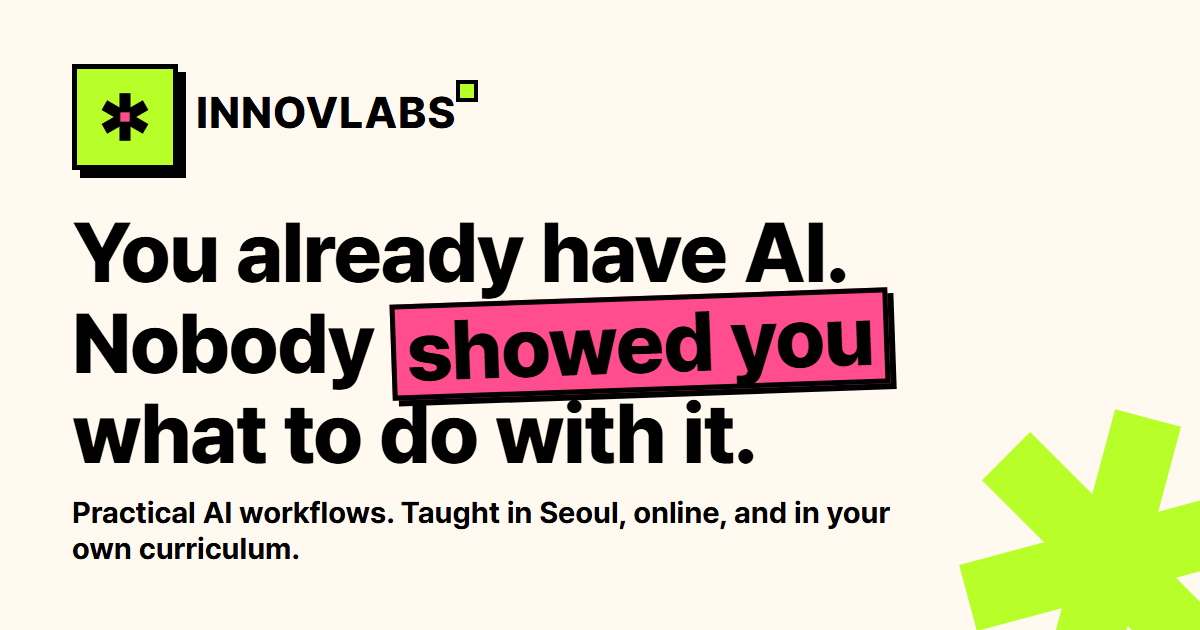
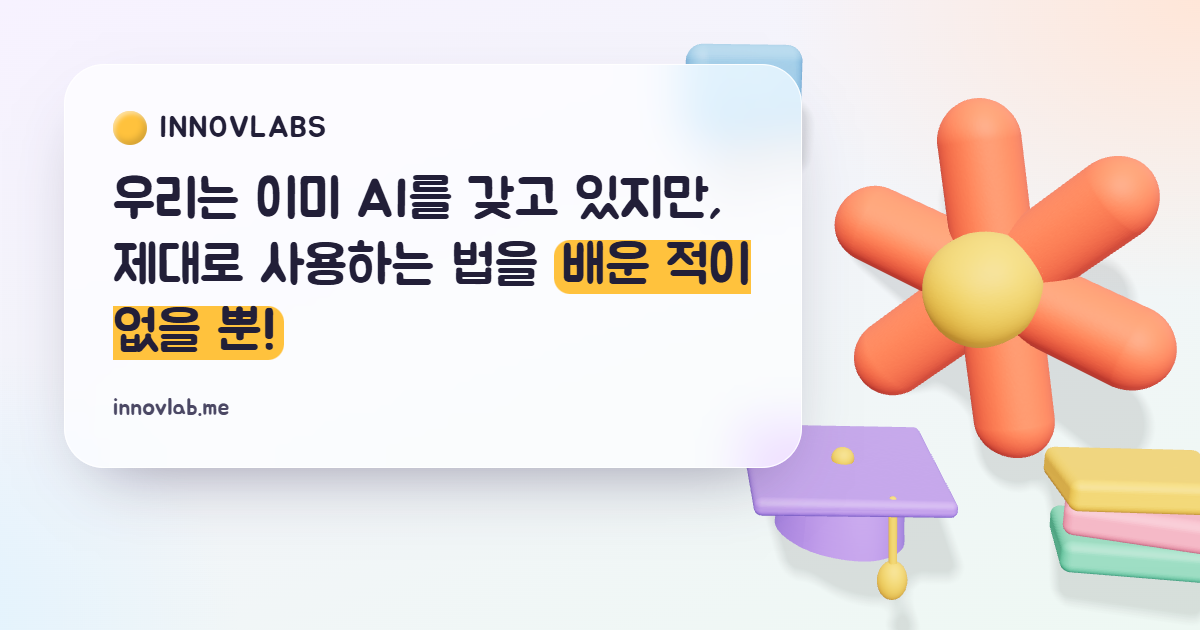
Rebrand R3: rest of the site in clay + glass; Jua subset; new share images
Translucent card surface site-wide; the router leads with the 학원 door
(reusing the approved hero 학원 copy) and every door card carries a clay
object; the closing banners use the clay asterisk; business, about and
contact headers get one floating clay object (hidden on small phones).
Jua's Korean file is subset to the 911 syllables the copy uses (368 ->
151 KB) by scripts/subset-jua.py, on site and app. New og-ko/og-en share
images rendered from the clay scene.

diff --git a/site/src/styles/global.css b/site/src/styles/global.css
@@ -14,6 +14,7 @@
   --cyan: #9FD3FF;
   --white: #FFFFFF;
   --glass: rgba(255, 255, 255, 0.62);
+  --surface: rgba(255, 255, 255, 0.7); /* cards: translucent white over the wash */
   --glass-edge: rgba(255, 255, 255, 0.9);
   --grey-fill: #ECE8F4;
   --grey-text: #4B4864;
@@ -66,6 +67,17 @@
   --stagger-strike: 100ms;
   --dur-draw: 200ms; /* motion spec 5.2.5 */
   --icon: 3rem; /* 48px grid, 40px on phones */
+}
+
+/* Jua, the display face: Korean subset to the syllables the copy uses
+   (scripts/subset-jua.py, 151 KB instead of 368 KB); Latin from @fontsource. */
+@font-face {
+  font-family: 'Jua';
+  src: url('/fonts/jua-ko.woff2') format('woff2');
+  font-weight: 400;
+  font-style: normal;
+  font-display: swap;
+  unicode-range: U+1100-11FF, U+3000-303F, U+3130-318F, U+AC00-D7A3, U+FF01-FF60;
 }
 
 /* Pretendard Variable, self-hosted, split by script so English pages never
@@ -181,6 +193,39 @@ h3 {
 ::selection {
   background: var(--lime);
   color: var(--ink);
+}
+
+/* Clay stills drift slowly; still under reduced motion (global rule below). */
+@keyframes clay-float {
+  from {
+    translate: 0 0;
+  }
+  to {
+    translate: 0 -10px;
+  }
+}
+
+/* One clay object floats at the right of a plain page header (business,
+   about, contact). Hidden on small phones so it never covers a headline. */
+.hero-clay {
+  position: absolute;
+  top: 50%;
+  right: max(var(--gutter), calc((100% - var(--max-width)) / 2 + var(--gutter)));
+  width: clamp(8rem, 17vw, 15rem);
+  height: auto;
+  margin-top: calc(clamp(8rem, 17vw, 15rem) / -2);
+  pointer-events: none;
+  animation: clay-float 7s ease-in-out infinite alternate;
+}
+@media (max-width: 699px) {
+  .hero-clay {
+    display: none;
+  }
+}
+@media (min-width: 700px) {
+  .hero-clay + h1 {
+    max-width: calc(100% - clamp(8rem, 17vw, 15rem) - 2rem);
+  }
 }
 
 /* Frosted glass panel: the surface every card and bar sits on. */

diff --git a/src/styles/fonts/jua.css b/src/styles/fonts/jua.css
@@ -1,5 +1,5 @@
-/* Jua (OFL-1.1, via @fontsource), the display face shared with the site. Korean and Latin
-   split by unicode-range; no preload and swap, so it never blocks text. */
+/* Jua (OFL-1.1, via @fontsource), the display face shared with the site. The Korean file is
+   subset to the syllables the copy uses (scripts/subset-jua.py). No preload; swap. */
 @font-face {
   font-family: "Jua";
   font-style: normal;
@@ -14,5 +14,5 @@
   font-display: swap;
   font-weight: 400;
   src: url(./jua-korean-400-normal.woff2) format("woff2");
-  unicode-range: U+1100-11FF, U+3130-318F, U+A960-A97F, U+AC00-D7A3, U+D7B0-D7FF;
+  unicode-range: U+1100-11FF, U+3000-303F, U+3130-318F, U+AC00-D7A3, U+FF01-FF60;
 }

diff --git a/scripts/subset-jua.py b/scripts/subset-jua.py
@@ -1,0 +1,37 @@
+"""Subset the Jua display face to the Hangul syllables used in site and app copy.
+
+Jua's full Korean file is 368 KB; headings only use a few hundred syllables, so
+the subset is a fraction of that. Re-run after copy changes (new syllables fall
+back to Pretendard until then):
+
+    pip install fonttools brotli
+    python scripts/subset-jua.py
+
+Writes site/public/fonts/jua-ko.woff2 and src/styles/fonts/jua-korean-400-normal.woff2.
+"""
+import glob
+import io
+import os
+import subprocess
+import sys
+
+ROOT = os.path.dirname(os.path.dirname(os.path.abspath(__file__)))
+SRC = os.path.join(ROOT, 'site/node_modules/@fontsource/jua/files/jua-korean-400-normal.woff2')
+SOURCES = ['site/src/**/*.json', 'site/src/**/*.astro', 'src/**/*.tsx', 'src/**/*.ts', 'content/**/*.json']
+
+chars = set()
+for pattern in SOURCES:
+    for f in glob.glob(os.path.join(ROOT, pattern), recursive=True):
+        text = io.open(f, encoding='utf-8', errors='ignore').read()
+        chars.update(ch for ch in text if 0xAC00 <= ord(ch) <= 0xD7A3 or 0x3131 <= ord(ch) <= 0x318E)
+text_file = os.path.join(ROOT, '.jua-chars.txt')
+io.open(text_file, 'w', encoding='utf-8').write(''.join(sorted(chars)))
+outs = [os.path.join(ROOT, 'site/public/fonts/jua-ko.woff2'), os.path.join(ROOT, 'src/styles/fonts/jua-korean-400-normal.woff2')]
+try:
+    for out in outs:
+        subprocess.run([sys.executable, '-m', 'fontTools.subset', SRC, f'--text-file={text_file}',
+                        '--unicodes=U+3000-303F,U+FF01-FF60', '--flavor=woff2', "--layout-features=*",
+                        f'--output-file={out}'], check=True)
+finally:
+    os.remove(text_file)
+print(f'{len(chars)} syllables -> {os.path.getsize(outs[0]) // 1024} KB')

diff --git a/docs/brand/README.md b/docs/brand/README.md
@@ -41,12 +41,19 @@ Type: Jua (display, one weight) + Pretendard (text). Korean always `word-break: 
 
 ## Phases
 
-- **R1 (built, not deployed):** site tokens, clay buttons, frosted nav, home hero with live clay and
+- **R1 (live 2026-10-03):** site tokens, clay buttons, frosted nav, home hero with live clay and
   the persona carousel (slide 1 = original copy, mini tabs below).
-- **R2:** app in the same system (coordinate with the open app branch from the other session).
-- **R3:** rest of the site: sections recomposed as glass panels, clay stills per section, 학원 card
-  in the router, EN pass, OG images, Jua subset (the Korean Jua file is 368 KB; subset it).
-- **R4:** app learner area.
+- **R2 (built, waits for the main merge):** app tokens, glass cards, clay buttons, soft borders,
+  Jua headings, frosted header, sun clay logo, clay stills on /start, new favicons.
+- **R3 (site, live with this deploy):** translucent cards site-wide, 학원 door first in the router
+  (reusing the approved hero copy) with clay objects on every card, clay asterisk on the closing
+  banners, clay objects on the business/about/contact headers, Jua Korean subset (151 KB, re-run
+  `python scripts/subset-jua.py` after copy changes), new share images.
+- **Later:** per-section clay compositions on courses/platform, photo frames once real photos
+  arrive, app learner-area polish (A16/A17 come with the other session's app branch).
+
+Clay stills: rendered from `site/src/scripts/clay-scene.ts` with headless Chrome (a temporary
+dev page; see the R2 commit) into `site/public/clay/` and `public/clay/` as WebP.
 
 Each phase ends with screenshots and a phone-viewable preview for Eric; nothing ships without him.
 Parity checklist: `parity.md`.
